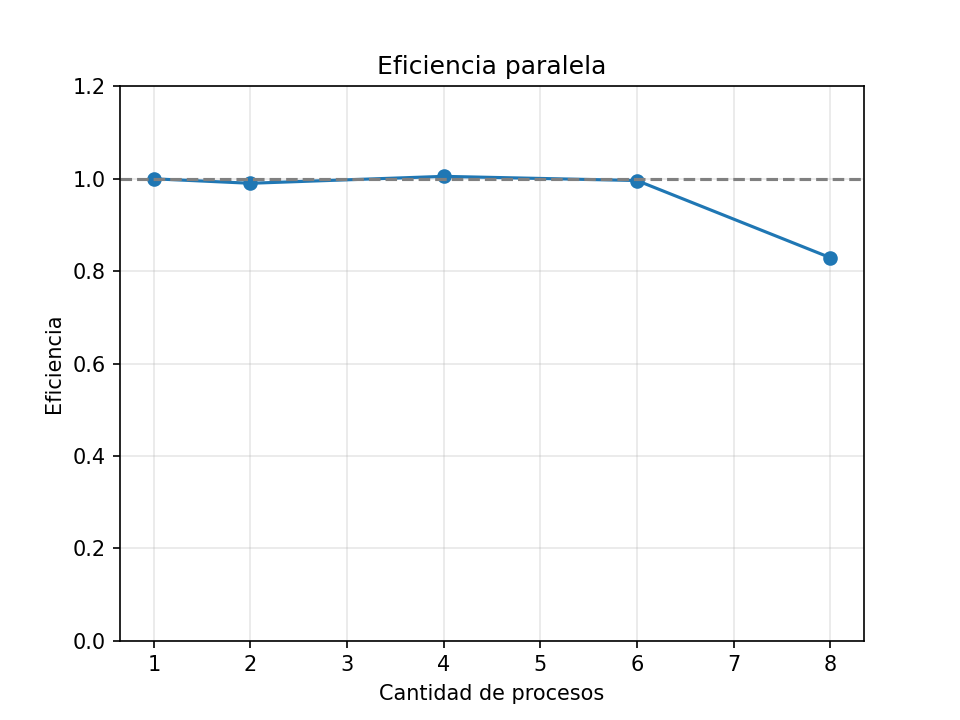
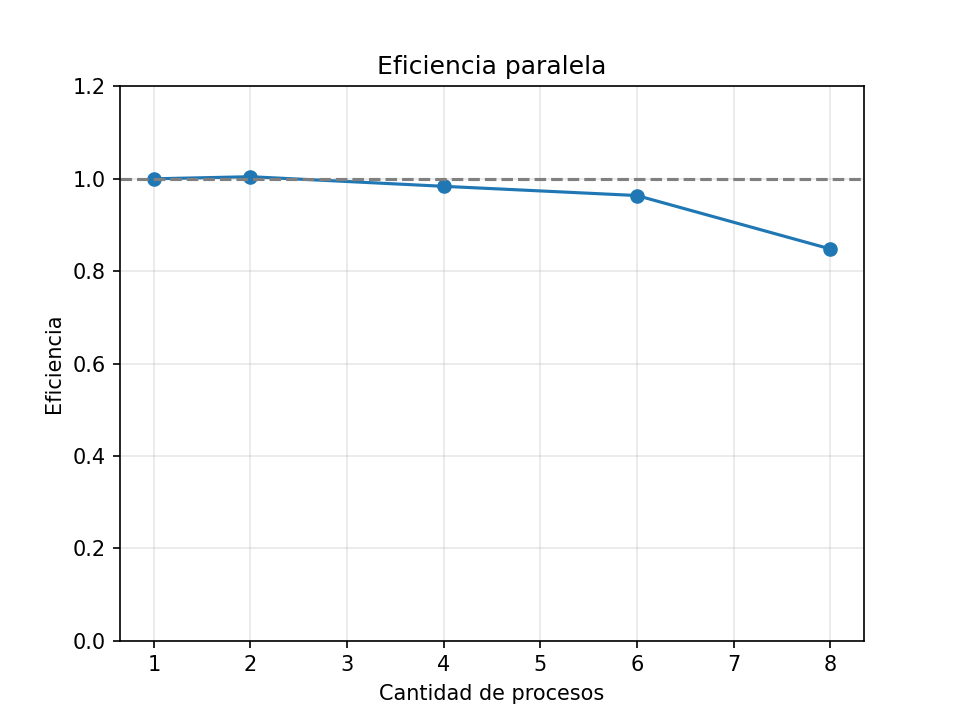
Medir el tiempo del serial con MPI_Wtime, como en el codigo de la catedra

Changed region(s): [[0.1875, 0.2139, 0.875, 0.3667]]

diff --git a/src/serial.c b/src/serial.c
@@ -1,13 +1,18 @@
 /*
-   Paradoja del cumpleanios - version SERIAL (sin MPI)
-   Sirve como referencia para calcular el speedup de la version paralela.
+   Paradoja del cumpleanios - version SERIAL (un solo proceso)
+   Sirve como referencia para calcular el speedup: es el T1 de la formula
+   Sp = T1 / Tp.
 
-   Compilar:  cc src/cumpleanos.c src/serial.c -o serial
+   Igual que el codigo serial de la catedra, se compila con mpicc y usa
+   MPI_Wtime para medir el tiempo, aunque no haga nada en paralelo. Esto es
+   para medir igual que la version paralela y poder comparar los tiempos.
+
+   Compilar:  mpicc src/cumpleanos.c src/serial.c -o serial
    Ejecutar:  ./serial 23 1000000
 */
 #include <stdio.h>
 #include <stdlib.h>
-#include <time.h>
+#include <mpi.h>
 #include "cumpleanos.h"
 
 int main(int argc, char **argv)
@@ -15,23 +20,28 @@ int main(int argc, char **argv)
     int k = 23;                  /* personas por grupo */
     long cantidad = 1000000;     /* cantidad de grupos a simular */
     long coincidencias;
-    double p_simulada, p_teorica, tiempo;
-    clock_t inicio, fin;
+    double p_simulada, p_teorica;
+    double t_inicio, t_fin, tiempo;
 
+    MPI_Init(&argc, &argv);
+
+    /* Los argumentos llegan como texto: atoi y atol los pasan a numero */
     if (argc > 1) k = atoi(argv[1]);
     if (argc > 2) cantidad = atol(argv[2]);
 
     if (k < 1 || cantidad < 1)
     {
         printf("Uso: %s [personas] [grupos]\n", argv[0]);
+        MPI_Finalize();
         return 1;
     }
 
-    inicio = clock();
+    /* Medimos solo la simulacion, que es la parte pesada */
+    t_inicio = MPI_Wtime();
     coincidencias = simular_grupos(k, cantidad, 12345);
-    fin = clock();
+    t_fin = MPI_Wtime();
 
-    tiempo = (double)(fin - inicio) / CLOCKS_PER_SEC;
+    tiempo = t_fin - t_inicio;
     p_simulada = (double)coincidencias / cantidad;
     p_teorica = probabilidad_teorica(k);
 
@@ -47,5 +57,6 @@ int main(int argc, char **argv)
     printf("csv,%d,%ld,1,%.6f,%.6f,%.3f\n",
            k, cantidad, p_simulada, p_teorica, tiempo);
 
+    MPI_Finalize();
     return 0;
 }

diff --git a/src/cumpleanos.c b/src/cumpleanos.c
@@ -3,12 +3,12 @@
 
 long simular_grupos(int k, long cantidad, unsigned int semilla)
 {
-    int cumpleanios[DIAS];   /* cumpleanios[d] = 1 si alguien cumple el dia d */
+    int cumpleanios[DIAS]; /* cumpleanios[d] = 1 si alguien cumple el dia d */
     long con_coincidencia = 0;
     long g;
     int i, dia, hay_coincidencia;
 
-    srand(semilla);   /* cada proceso usa una semilla distinta */
+    srand(semilla); /* cada proceso usa una semilla distinta */
 
     for (g = 0; g < cantidad; g++)
     {
@@ -76,11 +76,6 @@ double probabilidad_teorica(int k)
 
        Como las personas son independientes entre si, para que NINGUNA
        choque hay que multiplicar todas esas probabilidades.
-
-       Ojo con el orden de la cuenta: primero se multiplica por
-       sin_coincidencia, que es un double. Si se escribiera
-       ((DIAS - i) / DIAS) se dividirian dos enteros y C haria division
-       entera: 364/365 daria 0 en lugar de 0.9972.
     */
     for (i = 0; i < k; i++)
         sin_coincidencia = sin_coincidencia * (DIAS - i) / DIAS;

diff --git a/README.md b/README.md
@@ -27,7 +27,7 @@ entre varios procesos con MPI.
 ## Como usarlo
 
 ```bash
-cc src/cumpleanos.c src/serial.c -o serial
+mpicc src/cumpleanos.c src/serial.c -o serial
 mpicc src/cumpleanos.c src/paralelo.c -o paralelo
 
 ./serial 23 1000000
@@ -55,10 +55,10 @@ mediana de 3 corridas):
 
 | Procesos | Tiempo | Speedup | Eficiencia |
 |---|---|---|---|
-| 1 | 1.327 s | 1.00 | 1.00 |
-| 2 | 0.670 s | 1.98 | 0.99 |
-| 4 | 0.330 s | 4.02 | 1.01 |
-| 6 | 0.222 s | 5.98 | 1.00 |
-| 8 | 0.200 s | 6.63 | 0.83 |
+| 1 | 1.330 s | 1.00 | 1.00 |
+| 2 | 0.662 s | 2.01 | 1.00 |
+| 4 | 0.338 s | 3.93 | 0.98 |
+| 6 | 0.230 s | 5.78 | 0.96 |
+| 8 | 0.196 s | 6.79 | 0.85 |
 
 Falta correr lo mismo en las otras dos notebooks y en el servidor.

diff --git a/docs/como-correr.md b/docs/como-correr.md
@@ -5,7 +5,7 @@ No hace falta Makefile: son dos comandos.
 ## Compilar
 
 ```bash
-cc src/cumpleanos.c src/serial.c -o serial
+mpicc src/cumpleanos.c src/serial.c -o serial
 mpicc src/cumpleanos.c src/paralelo.c -o paralelo
 ```
 
